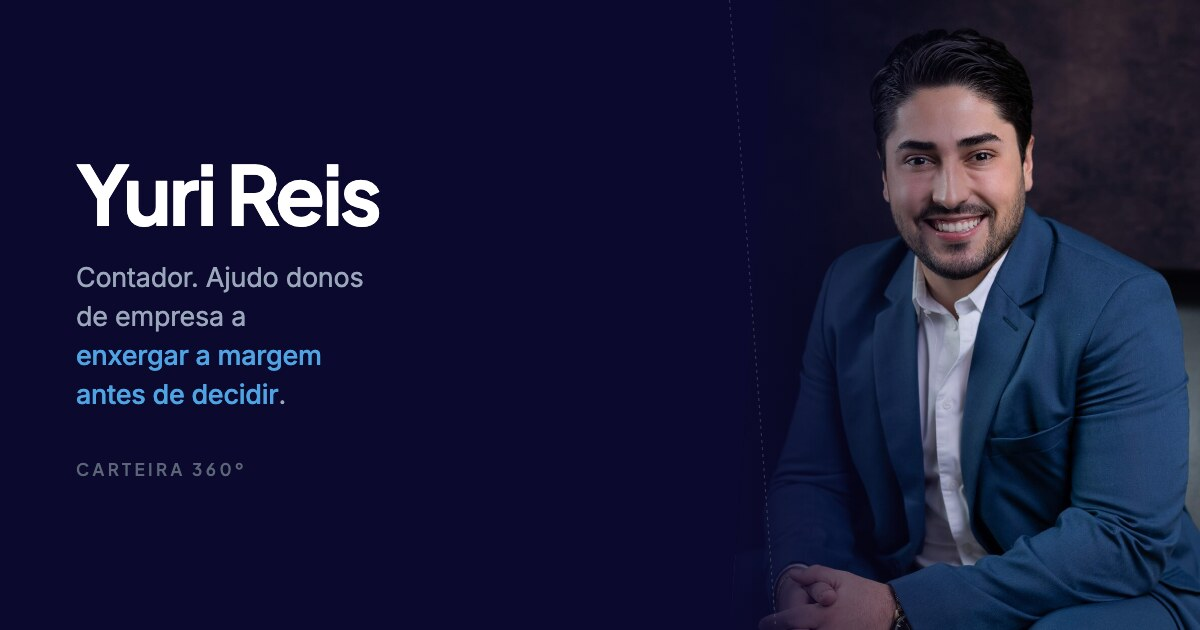
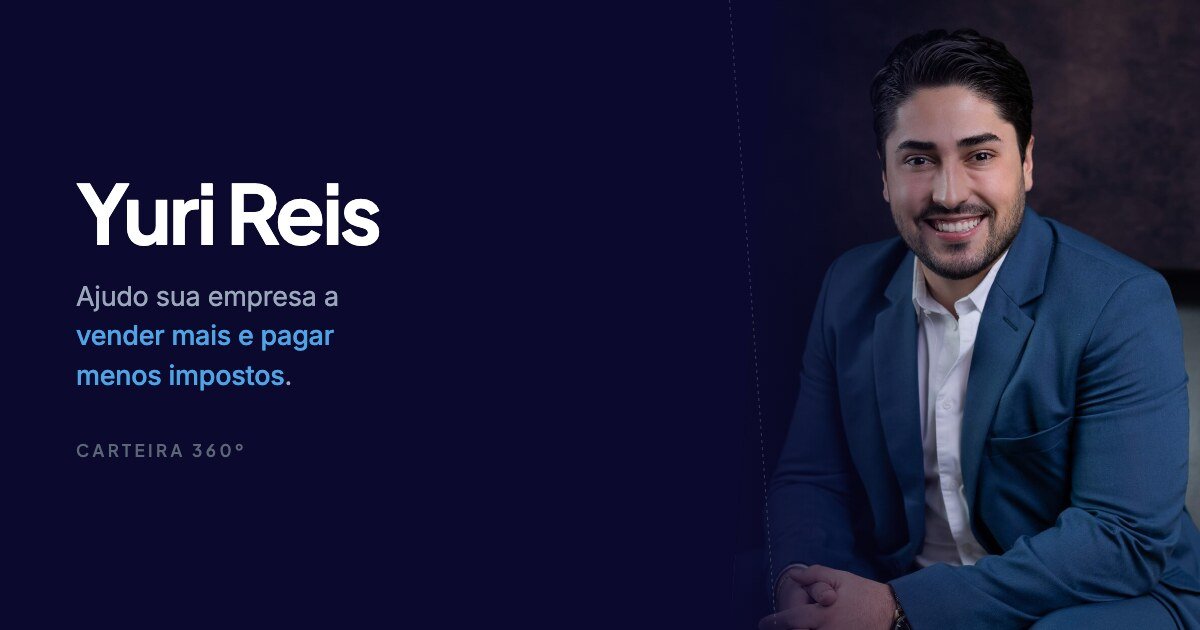
feat: nome centralizado, destinos reais e nomes de cartao revistos
Cabecalho centralizado com a frase de posicionamento do Yuri, os dois
cartoes de WhatsApp com mensagem pronta distinta e o formulario de
aplicacao apontando para o quiz.

Changed region(s): [[0.0617, 0.4222, 0.3083, 0.6635], [0.0617, 0.2413, 0.3392, 0.3921], [0.0617, 0.6937, 0.2158, 0.754]]

diff --git a/index.html b/index.html
@@ -6,28 +6,26 @@
     <meta name="viewport" content="width=device-width, initial-scale=1, viewport-fit=cover">
 
     <title>Yuri Reis · Links</title>
-    <meta name="description" content="Escritório de contabilidade, Inlead e palestras. Escolha por onde você quer falar com o Yuri Reis.">
+    <meta name="description" content="Ajudo sua empresa a vender mais e pagar menos impostos. Escritório de contabilidade, formulário de aplicação do Carteira 360º e palestras.">
 
     <!-- ============================================================
      PENDÊNCIAS ANTES DE PUBLICAR
-     1. LINKS: os três href estão como "#". Trocar pelos destinos reais
-        (procure por LINK 1, LINK 2, LINK 3 no markup).
-     2. INLEAD: confirmar a linha de descrição e o ícone. Escrevi uma
-        linha provisória porque falta a definição do produto.
-     3. Rodapé: confirmar se entra o @ do Instagram.
-     4. Preview de link (og:image e URL canônica): trocar
-        https://EXEMPLO.com.br/ pelo domínio final antes de publicar,
-        senão o WhatsApp entrega o link sem imagem.
+     1. Domínio: as URLs absolutas abaixo apontam para o endereço da
+        Vercel. Ao apontar um domínio próprio, trocar nos três lugares
+        (canonical, og:url, og:image) — o WhatsApp descarta caminho
+        relativo em og:image e o link chega sem imagem.
+     2. Rodapé: confirmar se entra o @ do Instagram e se o CNPJ que
+        fica aqui é o da Carteira 360º ou o do escritório.
      ============================================================ -->
 
-    <link rel="canonical" href="https://EXEMPLO.com.br/">
-    <meta property="og:url" content="https://EXEMPLO.com.br/">
+    <link rel="canonical" href="https://yuri-links.vercel.app/">
+    <meta property="og:url" content="https://yuri-links.vercel.app/">
     <meta property="og:type" content="website">
     <meta property="og:locale" content="pt_BR">
     <meta property="og:site_name" content="Yuri Reis">
     <meta property="og:title" content="Yuri Reis · Links">
-    <meta property="og:description" content="Escritório de contabilidade, Inlead e palestras. Escolha por onde você quer falar com o Yuri Reis.">
-    <meta property="og:image" content="https://EXEMPLO.com.br/img/og.jpg">
+    <meta property="og:description" content="Ajudo sua empresa a vender mais e pagar menos impostos. Escritório, formulário de aplicação e palestras.">
+    <meta property="og:image" content="https://yuri-links.vercel.app/img/og.jpg">
     <meta property="og:image:width" content="1200">
     <meta property="og:image:height" content="630">
     <meta property="og:image:alt" content="Yuri Reis">
@@ -188,6 +186,7 @@
             right: 0;
             bottom: 0;
             padding: 0 24px calc(var(--corte) + 10px);
+            text-align: center;
         }
 
         .nome {
@@ -201,12 +200,18 @@
         }
 
         .posicionamento {
-            margin: 8px 0 0;
+            margin: 9px auto 0;
             font-size: 15px;
             line-height: 1.5;
             color: var(--texto-claro-fraco);
-            text-wrap: pretty;
-            max-width: 30ch;
+            max-width: 31ch;
+        }
+
+        /* a frase quebra onde o sentido pede, não onde a caixa termina:
+   cada metade é uma unidade que só se parte se a tela for estreita demais */
+
+        .posicionamento span {
+            display: inline-block;
         }
 
         .posicionamento strong {
@@ -367,6 +372,34 @@
    6 · TELAS MAIORES  (o formato não muda: é um cartão, não um site)
    ============================================================ */
 
+        /* iPhone SE e afins: a caixa de texto do cartão fica sem largura
+   para o título em uma linha. Aperta o que é moldura, não o texto. */
+
+        @media (max-width: 359px) {
+            .links {
+                padding-inline: 14px;
+            }
+
+            .link {
+                grid-template-columns: 36px 1fr 14px;
+                gap: 11px;
+                padding: 16px 14px 16px 16px;
+            }
+
+            .link__icone {
+                width: 36px;
+                height: 36px;
+            }
+
+            .link__titulo {
+                font-size: 15.5px;
+            }
+
+            .link__linha {
+                font-size: 13px;
+            }
+        }
+
         @media (min-width: 620px) {
             :root {
                 --corte: 26px;
@@ -411,14 +444,17 @@
 
             <div class="identidade">
                 <h1 class="nome">Yuri Reis</h1>
-                <p class="posicionamento">Contador. Ajudo donos de empresa a <strong>enxergar a margem antes de decidir</strong>.</p>
+                <p class="posicionamento"><span>Ajudo sua empresa a <strong>vender mais</strong></span> <span><strong>e pagar menos impostos</strong> 🚀</span></p>
             </div>
         </header>
 
         <main class="links">
 
-            <!-- LINK 1 · ESCRITÓRIO -->
-            <a class="link" href="#">
+            <!-- LINK 1 · ESCRITÓRIO (WhatsApp)
+                 Os links 1 e 3 caem no mesmo número. A mensagem pronta é o que
+                 diz ao Yuri, na primeira linha da conversa, por qual porta a
+                 pessoa entrou. Para tirar, apague tudo a partir do "?". -->
+            <a class="link" href="https://wa.me/5535997720153?text=Oi%2C%20Yuri!%20Quero%20falar%20sobre%20a%20contabilidade%20da%20minha%20empresa." target="_blank" rel="noopener">
                 <span class="link__icone" aria-hidden="true">
                     <svg viewBox="0 0 24 24" fill="none" stroke="currentColor" stroke-width="1.6" stroke-linecap="round" stroke-linejoin="round">
                         <path d="M3 21h18" />
@@ -428,32 +464,34 @@
                     </svg>
                 </span>
                 <span>
-                    <span class="link__titulo">Escritório</span>
-                    <span class="link__linha">Contabilidade e rotina fiscal.</span>
+                    <span class="link__titulo">Falar com o escritório</span>
+                    <span class="link__linha">Contabilidade da sua empresa.</span>
                 </span>
                 <svg class="link__seta" viewBox="0 0 24 24" fill="none" stroke="currentColor" stroke-width="2" stroke-linecap="round" stroke-linejoin="round" aria-hidden="true">
                     <path d="M5 12h13M12 5l7 7-7 7" />
                 </svg>
             </a>
 
-            <!-- LINK 2 · INLEAD -->
-            <a class="link" href="#">
+            <!-- LINK 2 · FORMULÁRIO DE APLICAÇÃO -->
+            <a class="link" href="https://quiz.carteira360.com.br" target="_blank" rel="noopener">
                 <span class="link__icone" aria-hidden="true">
                     <svg viewBox="0 0 24 24" fill="none" stroke="currentColor" stroke-width="1.6" stroke-linecap="round" stroke-linejoin="round">
-                        <path d="M3 5h18l-7 8v6l-4 2v-8z" />
+                        <path d="M9 4H7a1 1 0 0 0-1 1v15a1 1 0 0 0 1 1h10a1 1 0 0 0 1-1V5a1 1 0 0 0-1-1h-2" />
+                        <rect x="9" y="2.5" width="6" height="3.2" rx="1" />
+                        <path d="M9 11h6M9 15h4" />
                     </svg>
                 </span>
                 <span>
-                    <span class="link__titulo">Inlead</span>
-                    <span class="link__linha">[A PREENCHER: o que é, em 4 palavras]</span>
+                    <span class="link__titulo">Formulário de aplicação</span>
+                    <span class="link__linha">Primeiro passo no Carteira 360º.</span>
                 </span>
                 <svg class="link__seta" viewBox="0 0 24 24" fill="none" stroke="currentColor" stroke-width="2" stroke-linecap="round" stroke-linejoin="round" aria-hidden="true">
                     <path d="M5 12h13M12 5l7 7-7 7" />
                 </svg>
             </a>
 
-            <!-- LINK 3 · PALESTRAS -->
-            <a class="link" href="#">
+            <!-- LINK 3 · PALESTRAS (mesmo WhatsApp do link 1, outra mensagem) -->
+            <a class="link" href="https://wa.me/5535997720153?text=Oi%2C%20Yuri!%20Quero%20te%20convidar%20para%20palestrar." target="_blank" rel="noopener">
                 <span class="link__icone" aria-hidden="true">
                     <svg viewBox="0 0 24 24" fill="none" stroke="currentColor" stroke-width="1.6" stroke-linecap="round" stroke-linejoin="round">
                         <rect x="9" y="2" width="6" height="11" rx="3" />
@@ -462,8 +500,8 @@
                     </svg>
                 </span>
                 <span>
-                    <span class="link__titulo">Palestras</span>
-                    <span class="link__linha">Para palestrar no seu evento.</span>
+                    <span class="link__titulo">Convidar para palestrar</span>
+                    <span class="link__linha">Yuri no palco do seu evento.</span>
                 </span>
                 <svg class="link__seta" viewBox="0 0 24 24" fill="none" stroke="currentColor" stroke-width="2" stroke-linecap="round" stroke-linejoin="round" aria-hidden="true">
                     <path d="M5 12h13M12 5l7 7-7 7" />

diff --git a/og.html b/og.html
@@ -119,7 +119,7 @@
     <div class="card">
         <div class="texto">
             <h1 class="nome">Yuri Reis</h1>
-            <p class="linha">Contador. Ajudo donos de empresa a <strong>enxergar a margem antes de decidir</strong>.</p>
+            <p class="linha">Ajudo sua empresa a <strong>vender mais e pagar menos impostos</strong>.</p>
             <div class="marca">Carteira 360º</div>
         </div>
         <div class="foto">

diff --git a/README.md b/README.md
@@ -4,6 +4,16 @@ Página de links (estilo Linktree) do Yuri Reis, na identidade visual da página
 
 Um arquivo, sem build, sem JavaScript. Fontes auto-hospedadas: a página não depende do Google Fonts.
 
+## Os três links
+
+| Cartão | Destino |
+| --- | --- |
+| Falar com o escritório | `wa.me/5535997720153` com mensagem pronta sobre contabilidade |
+| Formulário de aplicação | `quiz.carteira360.com.br` |
+| Convidar para palestrar | `wa.me/5535997720153` com mensagem pronta sobre palestra |
+
+Os dois cartões de WhatsApp caem no mesmo número, então cada um leva uma mensagem pronta diferente: é o que diz ao Yuri, na primeira linha da conversa, por qual porta a pessoa entrou. Para tirar, apague tudo a partir do `?` no `href`.
+
 ## Editar
 
 - **Links:** `index.html`, procure por `LINK 1`, `LINK 2`, `LINK 3`.
@@ -14,11 +24,10 @@ Um arquivo, sem build, sem JavaScript. Fontes auto-hospedadas: a página não de
   O enquadramento fino fica no CSS, em `.topo__foto img { object-position }`.
 - **Preview de link (WhatsApp, Instagram):** `img/og.jpg` sai de `og.html`. Para regerar, abra `og.html` em 1200x630 e capture a tela.
 
-## Antes de publicar
+## Pendências
 
-1. Trocar os três `href="#"` pelos destinos reais.
-2. Escrever a linha do Inlead (está com `[A PREENCHER]`).
-3. Trocar `https://EXEMPLO.com.br/` pelo domínio final no `<link rel="canonical">` e nas metatags `og:` — sem URL absoluta o WhatsApp entrega o link sem imagem.
+1. **Domínio.** As URLs absolutas apontam para `yuri-links.vercel.app`. Ao apontar um domínio próprio, trocar no `<link rel="canonical">`, no `og:url` e no `og:image` — sem URL absoluta o WhatsApp entrega o link sem imagem.
+2. **Rodapé.** Está com o CNPJ da Carteira 360º, tirado da página da Imersão. Confirmar se é esse ou o do escritório, e se entra o @ do Instagram.
 
 ## Medição
 
